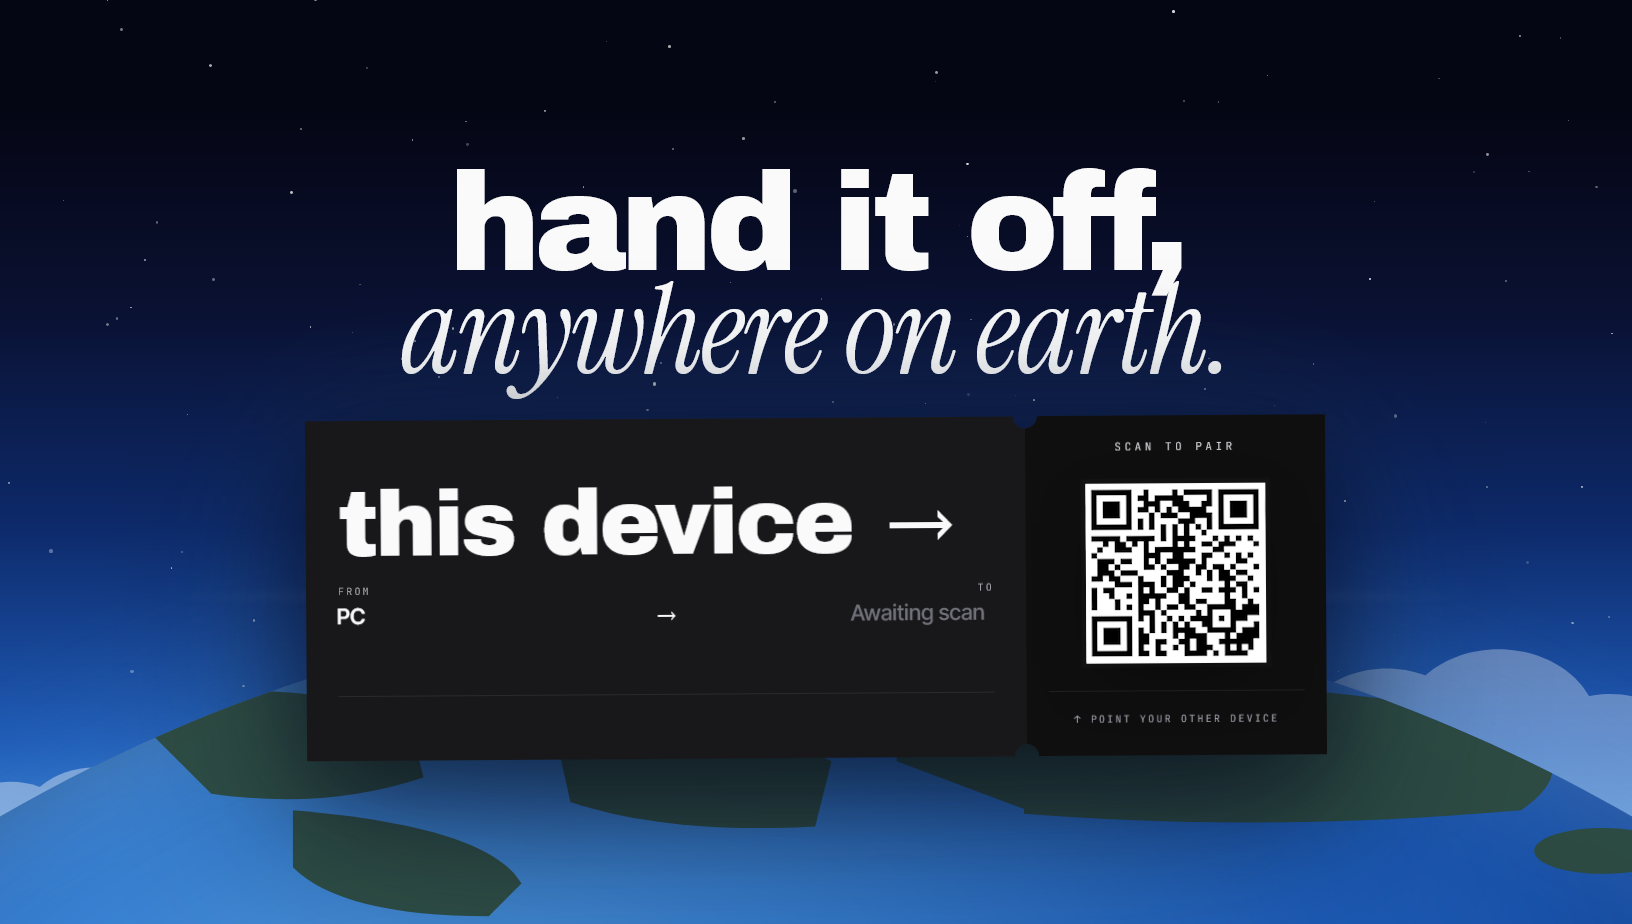
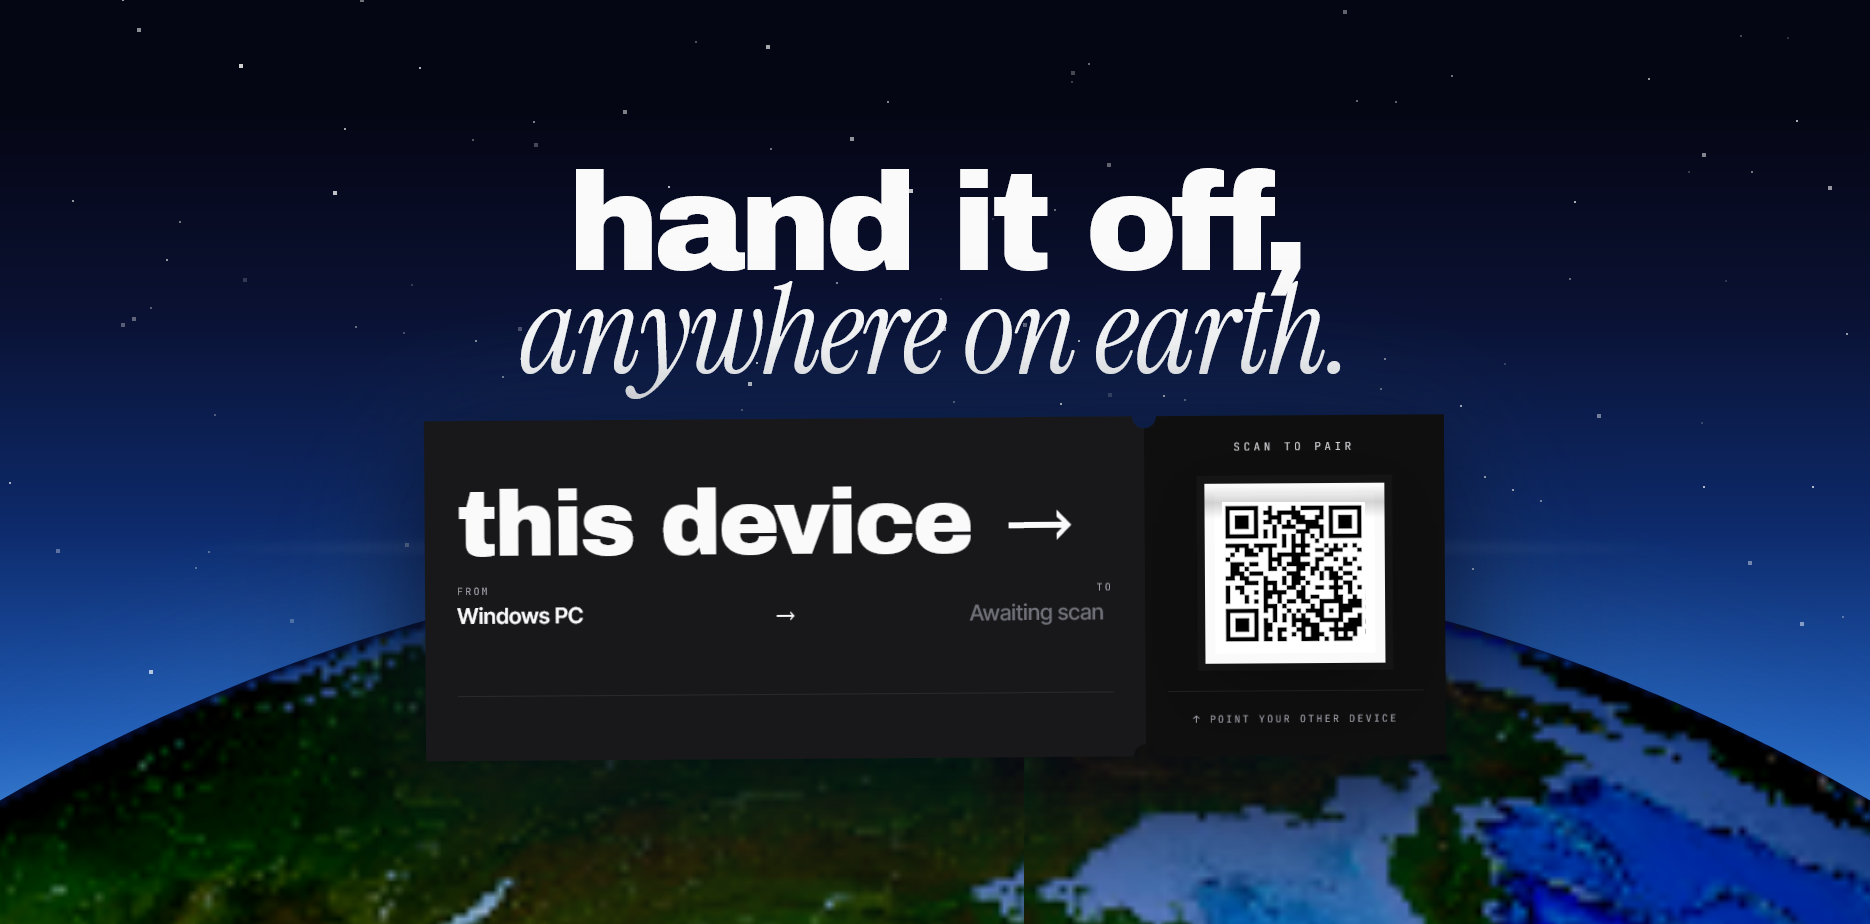
refactor: remove unused keyframe animations and optimize HeroGlobe rendering

diff --git a/apps/web/app/routes/home.tsx b/apps/web/app/routes/home.tsx
@@ -41,7 +41,7 @@ function rand(i: number) {
 const STAR_ITEMS = Array.from({ length: 140 }, (_, i) => ({
   x: rand(i * 2 + 1) * 100,
   y: rand(i * 2 + 2) * 76,
-  r: rand(i * 3 + 3) * 1.3 + 0.4,
+  r: Math.max(1, Math.round(rand(i * 3 + 3) * 2.5)),
   op: rand(i * 5 + 4) * 0.55 + 0.35,
 }));
 
@@ -68,94 +68,88 @@ function HeroStars() {
   );
 }
 
-function HeroCloud({
-  scale = 1,
-  opacity = 0.4,
-  color = "#e8eef7",
-  flip = false,
-}: {
-  scale?: number;
-  opacity?: number;
-  color?: string;
-  flip?: boolean;
-}) {
-  return (
-    <svg
-      viewBox="0 0 320 130"
-      width={320 * scale}
-      height={130 * scale}
-      style={{ display: "block", opacity, transform: flip ? "scaleX(-1)" : "none" }}
-      aria-hidden="true"
-    >
-      <g fill={color}>
-        <ellipse cx="55" cy="92" rx="48" ry="34" />
-        <ellipse cx="115" cy="62" rx="58" ry="48" />
-        <ellipse cx="185" cy="52" rx="62" ry="50" />
-        <ellipse cx="255" cy="72" rx="52" ry="42" />
-        <rect x="50" y="92" width="220" height="34" rx="18" />
-      </g>
-    </svg>
-  );
-}
-
-const CLOUD_ITEMS = [
-  { top: "58%", delay: "-22s", dur: "95s",  scale: 1.4, opacity: 0.32, color: "#cfdcec", flip: false },
-  { top: "64%", delay: "-60s", dur: "130s", scale: 2.0, opacity: 0.25, color: "#bccfe6", flip: true },
-  { top: "72%", delay: "-10s", dur: "110s", scale: 1.6, opacity: 0.38, color: "#dde6f3", flip: false },
-  { top: "78%", delay: "-80s", dur: "140s", scale: 2.3, opacity: 0.22, color: "#c4d5ea", flip: true },
-  { top: "84%", delay: "-30s", dur: "90s",  scale: 1.2, opacity: 0.48, color: "#e8eef7", flip: false },
-  { top: "88%", delay: "-95s", dur: "150s", scale: 1.8, opacity: 0.35, color: "#cfdcec", flip: true },
-];
-
-function HeroClouds() {
-  return (
-    <div className="l-cloud-layer">
-      {CLOUD_ITEMS.map((c, i) => (
-        <div
-          key={i}
-          style={{
-            position: "absolute",
-            top: c.top,
-            left: 0,
-            willChange: "transform, opacity",
-            animation: `ht-drift ${c.dur} linear infinite`,
-            animationDelay: c.delay,
-          }}
-        >
-          <HeroCloud scale={c.scale} opacity={c.opacity} color={c.color} flip={c.flip} />
-        </div>
-      ))}
-    </div>
-  );
-}
-
 function HeroGlobe() {
+  const canvasRef = useRef<HTMLCanvasElement>(null);
+
+  useEffect(() => {
+    const canvas = canvasRef.current;
+    if (!canvas) return;
+
+    const SIZE = canvas.width;
+    const R = SIZE / 2;
+    const TEX_W = 1024;
+    const TEX_H = 512;
+    let rafId = 0;
+
+    const img = new Image();
+    img.src = "/large-satellite-world-topo-map.jpg";
+    img.onload = () => {
+      const tmp = document.createElement("canvas");
+      tmp.width = TEX_W;
+      tmp.height = TEX_H;
+      const tctx = tmp.getContext("2d")!;
+      tctx.drawImage(img, 0, 0, TEX_W, TEX_H);
+      const texPx = tctx.getImageData(0, 0, TEX_W, TEX_H).data;
+
+      // Precompute spherical UV + shading for every pixel once
+      const uBase = new Float32Array(SIZE * SIZE);
+      const vRow = new Int32Array(SIZE * SIZE); // row offset pre-multiplied by TEX_W
+      const sphereMask = new Uint8Array(SIZE * SIZE);
+      const shadeDim = new Uint8Array(SIZE * SIZE);
+
+      for (let y = 0; y < SIZE; y++) {
+        for (let x = 0; x < SIZE; x++) {
+          const nx = (x - R) / R;
+          const ny = (y - R) / R;
+          if (nx * nx + ny * ny >= 1) continue;
+          const nz = Math.sqrt(1 - nx * nx - ny * ny);
+          const lat = Math.asin(-ny);
+          const lon = Math.atan2(nx, nz);
+          const idx = y * SIZE + x;
+          uBase[idx] = (lon / (2 * Math.PI) + 0.5) * TEX_W;
+          vRow[idx] = Math.min(Math.floor((0.5 - lat / Math.PI) * TEX_H), TEX_H - 1) * TEX_W;
+          sphereMask[idx] = 1;
+          // Limb darkening + directional light from upper-left
+          const limbDark = Math.pow(nz, 0.6);
+          const dirLight = Math.max(0, nx * -0.35 + ny * -0.45 + nz * 0.7);
+          const brightness = limbDark * 0.55 + dirLight * 0.45;
+          shadeDim[idx] = Math.round((1 - brightness) * 185);
+        }
+      }
+
+      const ctx = canvas.getContext("2d")!;
+      const frameData = ctx.createImageData(SIZE, SIZE);
+      const out = frameData.data;
+      let angle = 0;
+
+      function render() {
+        const uShift = (angle / (2 * Math.PI)) * TEX_W;
+        for (let i = 0; i < SIZE * SIZE; i++) {
+          if (!sphereMask[i]) continue;
+          let u = uBase[i] - uShift;
+          u = ((u % TEX_W) + TEX_W) % TEX_W;
+          const pi = (vRow[i] + Math.floor(u)) * 4;
+          const po = i * 4;
+          const dim = shadeDim[i];
+          out[po]     = texPx[pi]     - dim;
+          out[po + 1] = texPx[pi + 1] - dim;
+          out[po + 2] = texPx[pi + 2] - dim + 12; // subtle blue cast in shadows
+          out[po + 3] = 255;
+        }
+        ctx.putImageData(frameData, 0, 0);
+        angle = (angle + 0.003) % (2 * Math.PI);
+        rafId = requestAnimationFrame(render);
+      }
+
+      rafId = requestAnimationFrame(render);
+    };
+
+    return () => cancelAnimationFrame(rafId);
+  }, []);
+
   return (
-    <div className="l-globe-wrap">
-      <div className="l-globe-lands">
-        <svg
-          viewBox="0 0 4000 200"
-          width="100%"
-          height="100%"
-          preserveAspectRatio="none"
-          aria-hidden="true"
-        >
-          {[0, 2000].map((dx) => (
-            <g key={dx} transform={`translate(${dx} 0)`} fill="#2e4a3a" opacity="0.92">
-              <path d="M 70 90 Q 180 50 320 70 Q 440 80 480 130 Q 420 175 280 170 Q 150 165 90 140 Z" />
-              <path d="M 360 150 Q 420 150 450 180 L 410 195 Q 360 190 350 170 Z" />
-              <ellipse cx="560" cy="60" rx="55" ry="22" />
-              <path d="M 760 60 Q 870 50 940 70 L 950 110 Q 890 130 820 120 Z" />
-              <path d="M 870 130 Q 990 140 1010 175 L 990 195 Q 900 195 870 165 Z" />
-              <path d="M 1030 80 Q 1140 70 1200 100 L 1190 140 Q 1100 145 1040 125 Z" />
-              <path d="M 1240 60 Q 1450 40 1620 70 Q 1700 95 1650 130 Q 1480 145 1320 130 L 1240 100 Z" />
-              <ellipse cx="1700" cy="155" rx="42" ry="14" />
-              <ellipse cx="1790" cy="150" rx="22" ry="9" />
-              <path d="M 1820 165 Q 1920 160 1960 180 Q 1920 198 1840 195 Z" />
-            </g>
-          ))}
-        </svg>
-      </div>
+    <div className="l-globe-wrap" aria-hidden="true">
+      <canvas ref={canvasRef} width={512} height={512} className="l-globe-canvas" />
     </div>
   );
 }
@@ -463,7 +457,6 @@ function LHero() {
       <HeroStars />
       <HeroGlobe />
       <div className="l-hero-rim" aria-hidden="true" />
-      <HeroClouds />
 
       <main className="l-hero-main">
         <h1 className="l-hero-title">

diff --git a/apps/web/app/app.css b/apps/web/app/app.css
@@ -1356,12 +1356,6 @@ a {
 }
 
 /* ── Hero keyframe animations ── */
-@keyframes ht-drift {
-  0%   { transform: translate3d(-45vw, 0, 0); opacity: 0 }
-  10%  { opacity: 1 }
-  90%  { opacity: 1 }
-  100% { transform: translate3d(145vw, 0, 0); opacity: 0 }
-}
 @keyframes ht-float {
   0%, 100% { transform: rotate(-0.4deg) translateY(0) }
   50%      { transform: rotate(0deg)    translateY(-6px) }
@@ -1381,10 +1375,6 @@ a {
   100% { transform: translateY(100%); opacity: 0 }
 }
 @keyframes ht-blink { 0%, 49% { opacity: 1 } 50%, 100% { opacity: 0 } }
-@keyframes ht-globe-spin {
-  from { transform: translateX(0%) }
-  to   { transform: translateX(-50%) }
-}
 @keyframes ht-twinkle {
   0%, 100% { opacity: var(--star-op, 0.5) }
   50%      { opacity: calc(var(--star-op, 0.5) * 0.4) }
@@ -1431,18 +1421,9 @@ a {
 
 .l-star {
   position: absolute;
-  border-radius: 50%;
   background: #ffffff;
+  image-rendering: pixelated;
   animation: ht-twinkle 4s ease-in-out infinite;
-}
-
-/* Cloud layer */
-.l-cloud-layer {
-  position: absolute;
-  inset: 0;
-  z-index: 2;
-  pointer-events: none;
-  overflow: hidden;
 }
 
 /* Globe */
@@ -1456,28 +1437,17 @@ a {
   border-radius: 50%;
   overflow: hidden;
   z-index: 3;
-  background: radial-gradient(
-    circle at 38% 22%,
-    #6ab2e8 0%,
-    #3a82d2 15%,
-    #1d5cb8 30%,
-    #0f3a86 50%,
-    #0a1f55 75%,
-    #050d2f 100%
-  );
-  box-shadow:
-    inset 0 30px 100px rgba(180, 220, 255, 0.18),
-    inset 60px -80px 120px rgba(0, 0, 0, 0.55),
-    0 -40px 120px rgba(74, 143, 208, 0.18);
+  background: #050d2f;
+  box-shadow: 0 -40px 120px rgba(74, 143, 208, 0.18);
 }
 
-.l-globe-lands {
+.l-globe-canvas {
   position: absolute;
-  top: 0%;
+  top: 0;
   left: 0;
-  width: 200%;
-  height: 10%;
-  animation: ht-globe-spin 80s linear infinite;
+  width: 100%;
+  height: 100%;
+  image-rendering: smooth;
 }
 
 /* Atmospheric rim glow */
